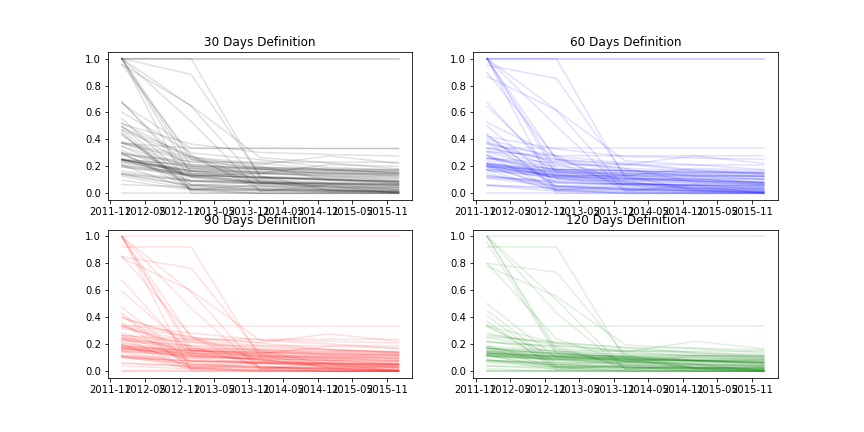
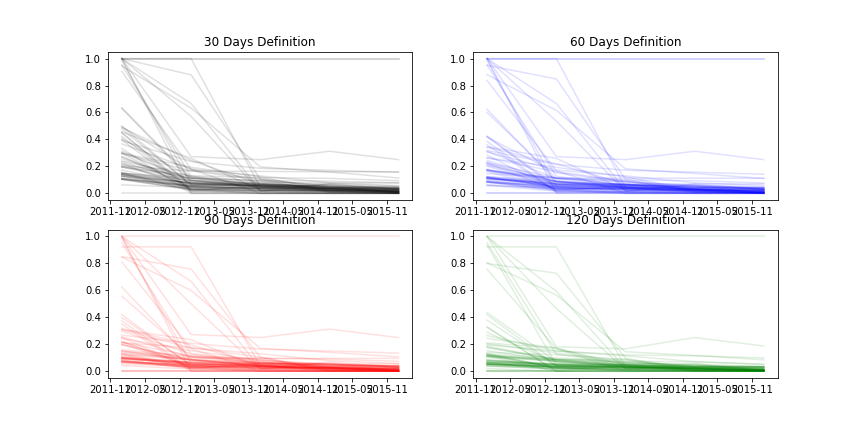
Adding alternative outcomes in status determination

diff --git a/src/models/cohort_analysis_function.py b/src/models/cohort_analysis_function.py
@@ -5,8 +5,10 @@ def get_first_visit_date(data_patient):
     data_patient['first_visit_date'] = min(data_patient.visit_date)
     return data_patient
 
-
 def status_patient(data_patient, reference_date, analysis_date, grace_period):
+    ''' Determines the status of a patient at a given reference_date, given the data available at a given analysis_date
+    TODO Also select the available data for Death and Transfer and other
+    '''
     data_current = data_patient[data_patient.date_entered < analysis_date]
     reference_date = pd.to_datetime(reference_date)
 
@@ -16,19 +18,20 @@ def status_patient(data_patient, reference_date, analysis_date, grace_period):
         late_time = reference_date - date_last_appointment
         if late_time.days > grace_period:
             status = 'LTFU'
-        elif late_time.days <= grace_period:
+        if late_time.days <= grace_period:
             status = 'Followed'
+        if (data_current.reasonDescEn.iloc[0] is not np.nan) & \
+        (pd.to_datetime(data_current.discDate.iloc[0]) < reference_date):
+            status = data_current.reasonDescEn.iloc[0]
         return pd.DataFrame([{'status': status,
                               'late_time': late_time,
                               'last_appointment': date_last_appointment,
                               'reference_date': reference_date,
                               'analysis_date': analysis_date}])
 
-
 def get_ltfu_rate(patients_status_df):
     ltfu_perc = np.mean(patients_status_df.status == 'LTFU')
     return ltfu_perc
-
 
 def horizon_outcome(data_patient, reference_date, analysis_date,
                     grace_period, horizon):
@@ -48,7 +51,6 @@ def horizon_outcome(data_patient, reference_date, analysis_date,
 # QUESTION What is the validation of a LTFU patient ? Never comes back ? Comes
 # back in less than a year ?
 # QUESTION What are the form_types
-# QUESTION Where are the other outcomes => Discontinuation form_types => which is discDate ?
 # TODO refactor the functions :
 # 1. Function to extract relevant data frame
 # 2. Function to compute the needed quantity
@@ -60,3 +62,4 @@ def horizon_outcome(data_patient, reference_date, analysis_date,
 
 
 # Active patient summary by site. Isanté Team. Voir si on peut intégrer le résultat pour eux.
+# TODO Faire un nombre de patient suivis, et un nombre de patients attendus

diff --git a/src/models/data_cohort_description.py b/src/models/data_cohort_description.py
@@ -13,7 +13,20 @@ data = pd.read_csv('data/processed/complete_data.csv')
 data = data[data.date_entered >= data.visit_date]
 data = data.groupby('patient_id').apply(caf.get_first_visit_date)
 
+data.loc[data.reasonDescEn.isin(['Patient preference', 'Seroreversion',
+                                'Poor adherence', 'Stock out']) , 'reasonDescEn'] = 'Other reasons'
+data.loc[data.reasonDescEn == 'Patient moved', 'reasonDescEn'] = 'Transferred'
+data.loc[data.reasonDescEn.isin(['Loss of contact more than 3 months', 'Unknown reason'])] = np.NaN
+
 dat_2012 = data[data.first_visit_date < '2012-01-01']
+
+caf.status_patient(data.iloc[0:3000], reference_date='2013-01-01',
+                      analysis_date='2013-01-01',
+                      grace_period=90)
+
+
+# TODO N Suivi vs N came last month
+# TODO N Suivi vs N coming next month
 
 ltfu_rates = []
 years = ['2012-01-01', '2013-01-01', '2014-01-01', '2015-01-01', '2016-01-01']
@@ -39,6 +52,8 @@ for grace_period in [30, 60, 90,  180]:
             ltfu_rates = ltfu_rates.groupby(['country', 'facility',
                                             'analysis_date', 'grace_period'])
             ltfu_rates = ltfu_rates.apply(caf.get_ltfu_rate)
+
+status_dat.status.value_counts()
 
 vl = data.facility.value_counts()
 
